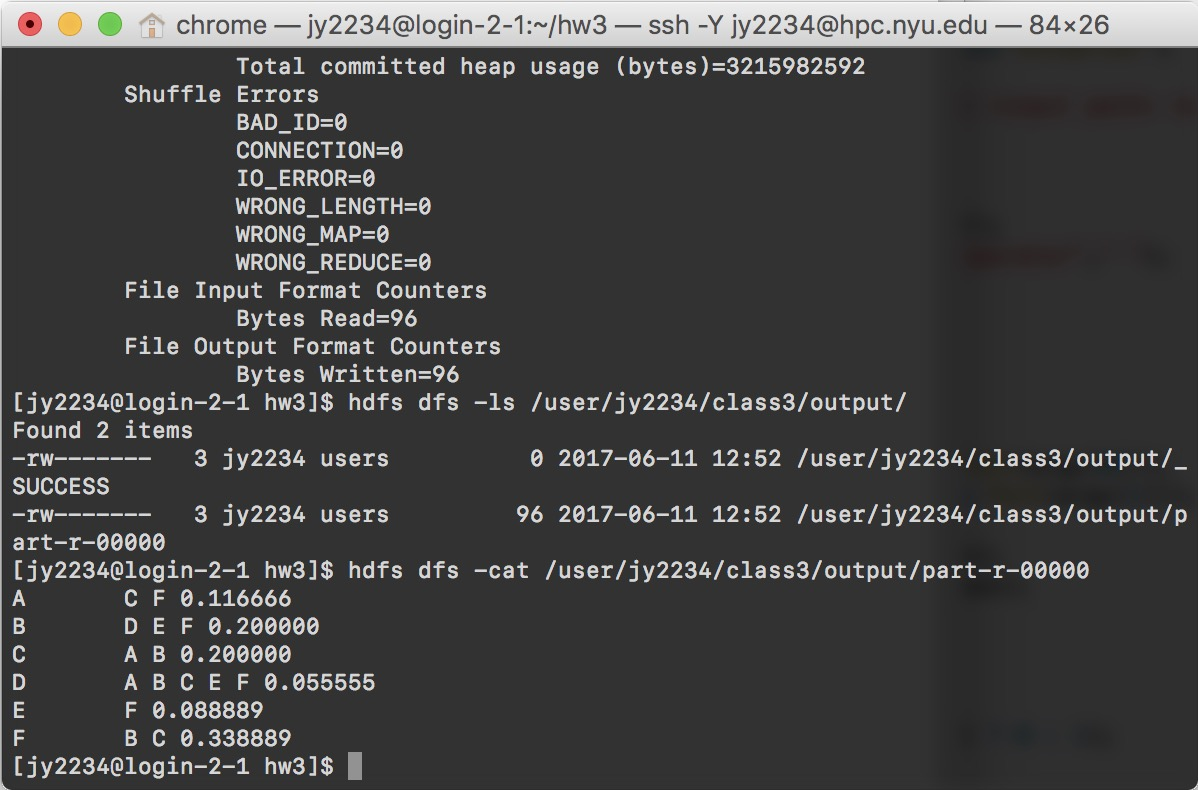
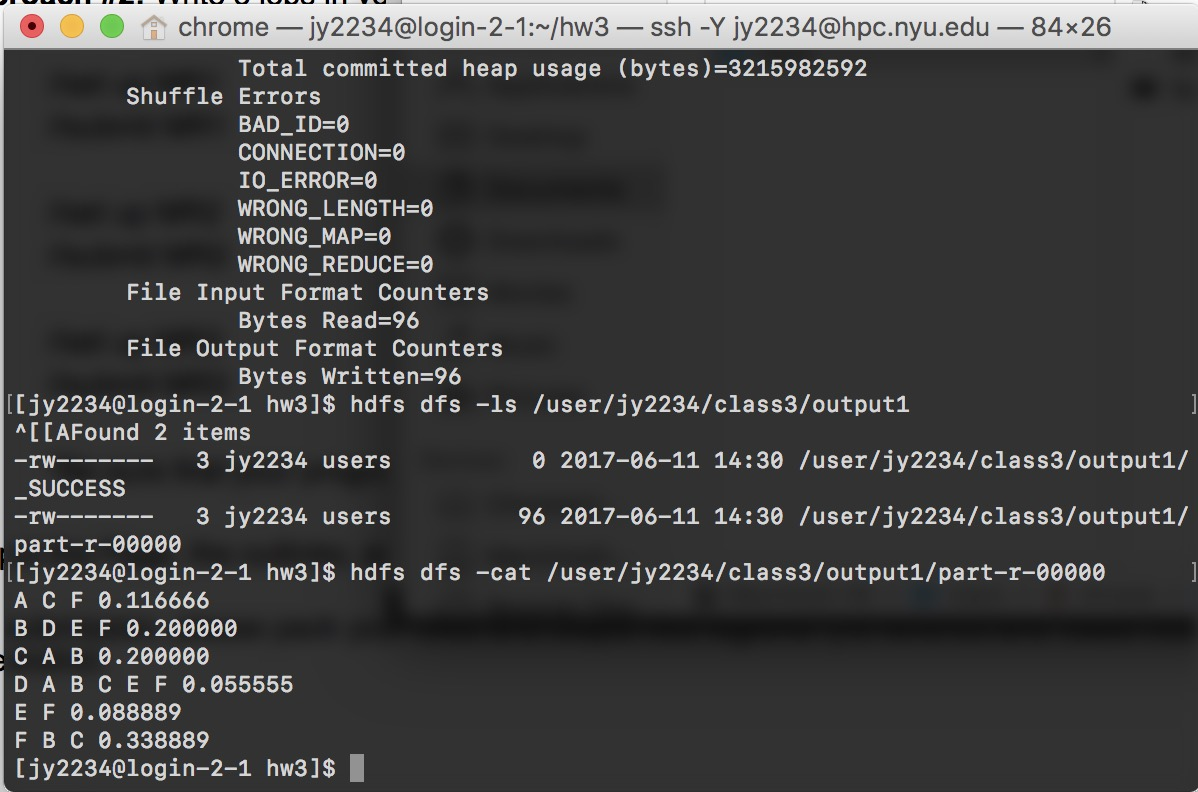
modified output format

diff --git a/program/PageRank.java b/program/PageRank.java
@@ -1,5 +1,6 @@
 // Pagerank
 
+import org.apache.hadoop.conf.Configuration;
 import org.apache.hadoop.fs.Path;
 import org.apache.hadoop.io.IntWritable;
 import org.apache.hadoop.io.Text;
@@ -18,6 +19,9 @@ public class PageRank {
 		job.setNumReduceTasks(1);
 		job.setJarByClass(PageRank.class);
 		job.setJobName("PageRank");
+
+		Configuration conf = job.getConfiguration();
+		conf.set("mapreduce.output.textoutputformat.separator", " ");
 
 		FileInputFormat.addInputPath(job, new Path(args[0]));
 		FileOutputFormat.setOutputPath(job, new Path(args[1]));
